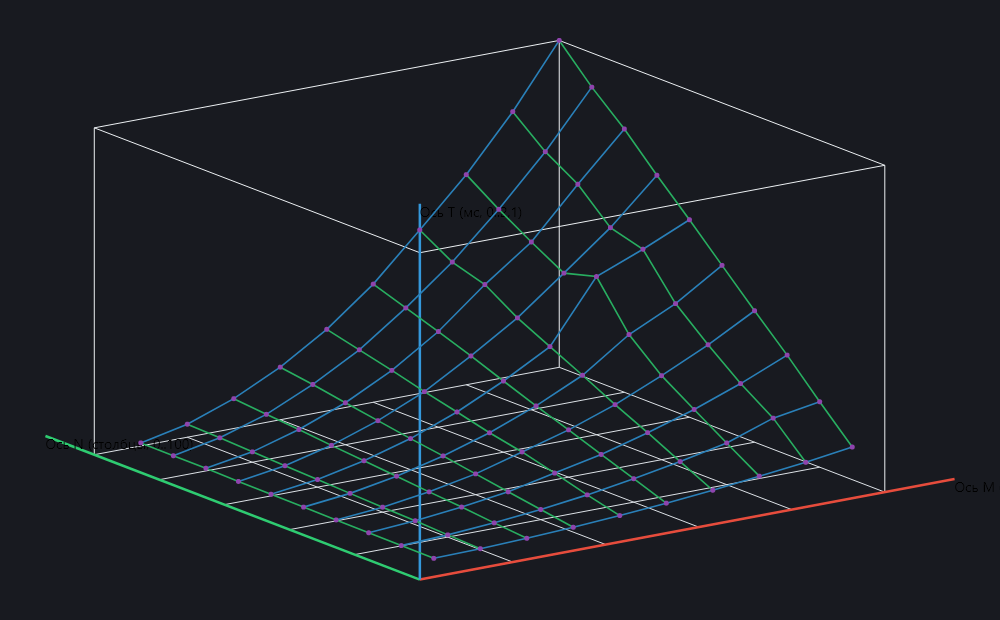
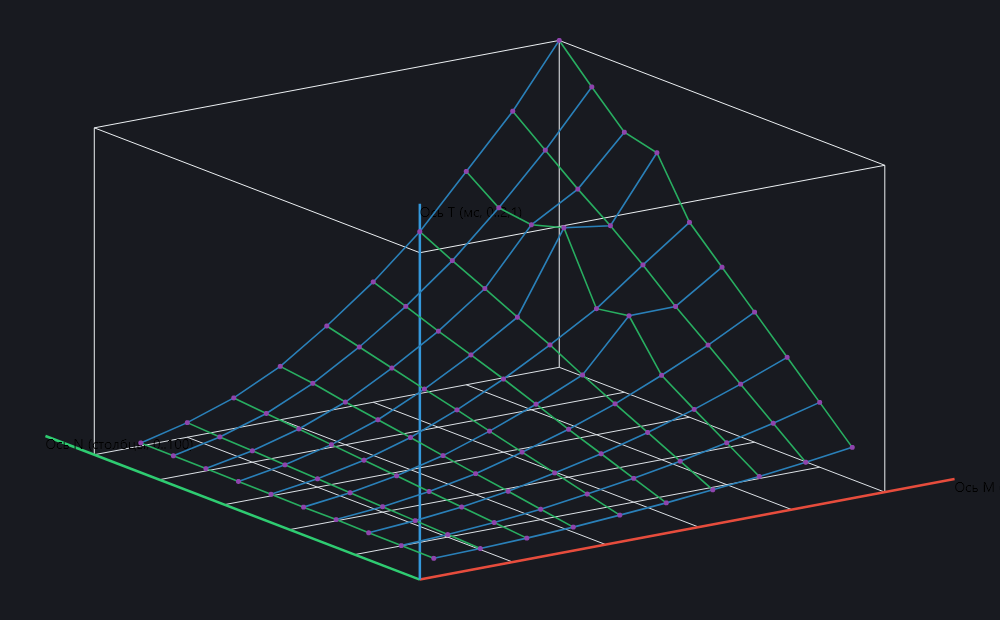
feat(ui): добавлен GridSplitter для изменения ширины левой панели и вкладки в стиле браузера с прокруткой и закрытием

diff --git a/first/UI/MainWindow.axaml.cs b/first/UI/MainWindow.axaml.cs
@@ -10,6 +10,8 @@ using System.Threading.Tasks;
 using Avalonia;
 using Avalonia.Controls;
 using Avalonia.Interactivity;
+using Avalonia.Layout;
+using Avalonia.Media;
 using Avalonia.Threading;
 using ScottPlot;
 using ScottPlot.Avalonia;
@@ -53,6 +55,9 @@ namespace first
 
         private ObservableCollection<AlgoSummaryRow> _summaryRows = new ObservableCollection<AlgoSummaryRow>();
         private List<TabItem> _dynamicTabs = new List<TabItem>();
+        private Dictionary<string, TabItem> _allDynamicTabs = new Dictionary<string, TabItem>();
+        private bool _isSidebarCollapsed = false;
+        private double _lastSidebarWidth = 380.0;
 
         public MainWindow()
         {
@@ -79,6 +84,9 @@ namespace first
             BtnRun.Click += async (s, e) => await StartExperimentAsync();
             BtnCancel.Click += (s, e) => _cts?.Cancel();
 
+            BtnToggleSidebar.Click += (s, e) => ToggleSidebar();
+            BtnTabListMenu.Click += (s, e) => ShowTabListMenu();
+
             BtnExportCsv.Click += OnExportCsvClick;
             BtnExportPng.Click += OnExportPngClick;
             BtnManageHistory.Click += OnManageHistoryClick;
@@ -89,6 +97,7 @@ namespace first
 
             TabsMain.SelectionChanged += (s, e) => OnTabChanged();
             PnlHistoryCompare.IsVisible = false;
+            UpdateTabListMenuButton();
         }
 
         private void OnTabChanged()
@@ -100,15 +109,14 @@ namespace first
                 return;
             }
 
-            string header = tab.Header?.ToString() ?? "";
-            if (!header.StartsWith("📈 "))
+            string algoName = tab.Tag as string;
+            if (string.IsNullOrEmpty(algoName) || algoName == "summary" || algoName == "log" || algoName.Contains("Матричное"))
             {
                 PnlHistoryCompare.IsVisible = false;
                 return;
             }
 
             PnlHistoryCompare.IsVisible = true;
-            string algoName = (tab.Tag as string) ?? header.Substring(header.IndexOf(' ') + 1).Trim();
             UpdateBaselineComboForAlgo(algoName);
             EnsureTabPlotUpdated(tab, algoName);
         }
@@ -601,13 +609,14 @@ namespace first
 
                         var tabItem3D = new TabItem
                         {
-                            Header = "🧊 Матрица 3D",
                             Tag = kv.Key,
                             Content = panel3d,
-                            FontSize = 13
+                            FontSize = 12
                         };
+                        tabItem3D.Header = CreateTabHeader("Матрица 3D", "🧊", tabItem3D, true);
 
                         _dynamicTabs.Add(tabItem3D);
+                        _allDynamicTabs[kv.Key] = tabItem3D;
                         TabsMain.Items.Add(tabItem3D);
                         continue;
                     }
@@ -619,16 +628,18 @@ namespace first
 
                 var tabItem = new TabItem
                 {
-                    Header = $"📈 {kv.Key}",
                     Tag = kv.Key,
                     Content = avaPlot,
-                    FontSize = 13
+                    FontSize = 12
                 };
+                tabItem.Header = CreateTabHeader(kv.Key, "📈", tabItem, true);
 
                 _dynamicTabs.Add(tabItem);
+                _allDynamicTabs[kv.Key] = tabItem;
                 TabsMain.Items.Add(tabItem);
             }
 
+            UpdateTabListMenuButton();
             TabsMain.SelectedIndex = 0;
         }
 
@@ -639,6 +650,171 @@ namespace first
                 TabsMain.Items.Remove(tab);
             }
             _dynamicTabs.Clear();
+            _allDynamicTabs.Clear();
+            UpdateTabListMenuButton();
+        }
+
+        private Control CreateTabHeader(string title, string icon, TabItem tabItem, bool canClose)
+        {
+            var panel = new StackPanel
+            {
+                Orientation = Avalonia.Layout.Orientation.Horizontal,
+                Spacing = 6,
+                VerticalAlignment = Avalonia.Layout.VerticalAlignment.Center
+            };
+
+            var iconTb = new TextBlock
+            {
+                Text = icon,
+                FontSize = 12,
+                VerticalAlignment = Avalonia.Layout.VerticalAlignment.Center
+            };
+            panel.Children.Add(iconTb);
+
+            var textTb = new TextBlock
+            {
+                Text = title,
+                FontSize = 12,
+                MaxWidth = 170,
+                TextTrimming = TextTrimming.CharacterEllipsis,
+                VerticalAlignment = Avalonia.Layout.VerticalAlignment.Center
+            };
+            ToolTip.SetTip(textTb, title);
+            panel.Children.Add(textTb);
+
+            if (canClose)
+            {
+                var btnClose = new Button
+                {
+                    Content = "×",
+                    Padding = new Thickness(0),
+                    Width = 16,
+                    Height = 16,
+                    FontSize = 13,
+                    FontWeight = Avalonia.Media.FontWeight.Bold,
+                    Background = Brushes.Transparent,
+                    Foreground = Brush.Parse("#9CA3AF"),
+                    BorderThickness = new Thickness(0),
+                    CornerRadius = new CornerRadius(8),
+                    VerticalAlignment = Avalonia.Layout.VerticalAlignment.Center,
+                    HorizontalContentAlignment = Avalonia.Layout.HorizontalAlignment.Center,
+                    VerticalContentAlignment = Avalonia.Layout.VerticalAlignment.Center,
+                    Margin = new Thickness(4, 0, 0, 0)
+                };
+                ToolTip.SetTip(btnClose, "Закрыть вкладку");
+                btnClose.Click += (s, e) =>
+                {
+                    e.Handled = true;
+                    CloseTab(tabItem);
+                };
+                panel.Children.Add(btnClose);
+            }
+
+            return panel;
+        }
+
+        private void CloseTab(TabItem tabItem)
+        {
+            if (tabItem == null) return;
+            int index = TabsMain.Items.IndexOf(tabItem);
+            if (index >= 0)
+            {
+                TabsMain.Items.Remove(tabItem);
+                if (TabsMain.SelectedIndex < 0 || TabsMain.SelectedItem == null)
+                {
+                    TabsMain.SelectedIndex = Math.Clamp(index - 1, 0, TabsMain.Items.Count - 1);
+                }
+            }
+            UpdateTabListMenuButton();
+        }
+
+        private void UpdateTabListMenuButton()
+        {
+            int openCount = TabsMain.Items.Count;
+            BtnTabListMenu.Content = $"📑 Вкладки ({openCount}) ▼";
+        }
+
+        private void ToggleSidebar()
+        {
+            var col = MainGrid.ColumnDefinitions[0];
+            if (!_isSidebarCollapsed)
+            {
+                _lastSidebarWidth = col.Width.Value > 50 ? col.Width.Value : 380.0;
+                col.MinWidth = 0;
+                col.Width = new GridLength(0);
+                _isSidebarCollapsed = true;
+                BtnToggleSidebar.Content = "◧ Развернуть";
+                ToolTip.SetTip(BtnToggleSidebar, "Развернуть панель параметров");
+            }
+            else
+            {
+                col.MinWidth = 260;
+                col.Width = new GridLength(_lastSidebarWidth);
+                _isSidebarCollapsed = false;
+                BtnToggleSidebar.Content = "◨ Панель";
+                ToolTip.SetTip(BtnToggleSidebar, "Свернуть панель параметров");
+            }
+        }
+
+        private void ShowTabListMenu()
+        {
+            var menu = new ContextMenu();
+
+            var itemSummary = new MenuItem { Header = "📋 Сводка" };
+            itemSummary.Click += (s, e) => { TabsMain.SelectedIndex = 0; };
+            menu.Items.Add(itemSummary);
+
+            var itemLog = new MenuItem { Header = "📝 Журнал" };
+            itemLog.Click += (s, e) => { TabsMain.SelectedIndex = 1; };
+            menu.Items.Add(itemLog);
+
+            if (_allDynamicTabs.Count > 0)
+            {
+                menu.Items.Add(new Separator());
+
+                foreach (var kv in _allDynamicTabs)
+                {
+                    string algoName = kv.Key;
+                    var tab = kv.Value;
+                    bool isOpen = TabsMain.Items.Contains(tab);
+
+                    string prefix = algoName.Contains("Матричное") ? "🧊 " : "📈 ";
+                    var item = new MenuItem
+                    {
+                        Header = isOpen ? $"✔ {prefix}{algoName}" : $"  {prefix}{algoName} (закрыта)",
+                        Foreground = isOpen ? Brush.Parse("#60A5FA") : Brush.Parse("#9CA3AF")
+                    };
+
+                    item.Click += (s, e) =>
+                    {
+                        if (!TabsMain.Items.Contains(tab))
+                        {
+                            TabsMain.Items.Add(tab);
+                        }
+                        TabsMain.SelectedItem = tab;
+                        UpdateTabListMenuButton();
+                    };
+
+                    menu.Items.Add(item);
+                }
+
+                menu.Items.Add(new Separator());
+                var itemRestoreAll = new MenuItem { Header = "↺ Показать все графики" };
+                itemRestoreAll.Click += (s, e) =>
+                {
+                    foreach (var kv in _allDynamicTabs)
+                    {
+                        if (!TabsMain.Items.Contains(kv.Value))
+                        {
+                            TabsMain.Items.Add(kv.Value);
+                        }
+                    }
+                    UpdateTabListMenuButton();
+                };
+                menu.Items.Add(itemRestoreAll);
+            }
+
+            menu.Open(BtnTabListMenu);
         }
 
         private void SetStatus(string text)
